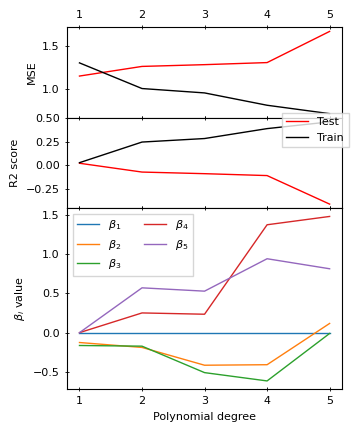
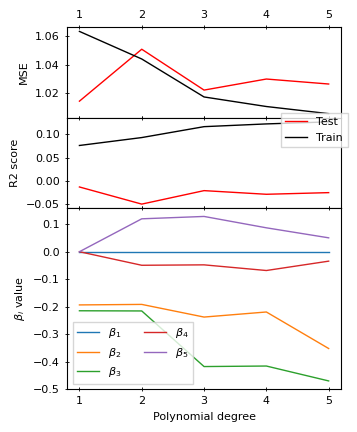
Changed theme

diff --git a/project1/src.py b/project1/src.py
@@ -384,11 +384,13 @@ class Regression:
             degree = np.arange(max_degree)
             error_y_test = self.y_test
             keepdims = True
+            filename = 'test-bias-var-trade'
         
         elif data_dim == 2:
             degree = np.arange(1, max_degree+1)
             error_y_test = self.y_test[:, np.newaxis]
             keepdims = False
+            filename = 'bias-var-trade'
 
         error = np.zeros(max_degree)
         bias = np.zeros_like(error)
@@ -410,7 +412,7 @@ class Regression:
             bias[deg_idx] = np.mean((self.y_test - np.mean(y_pred, axis=1, keepdims=keepdims))**2)
             variance[deg_idx] = np.mean(np.var(y_pred, axis=1, keepdims=keepdims))
 
-        fig, ax = plt.subplots(figsize=(8, 6))
+        fig, ax = plt.subplots(figsize=set_size())
         ax.plot(degree, error, label='Error', color='red')
         ax.plot(degree, bias, label='Bias', color='green')
         ax.plot(degree, variance, label='Variance', color='blue')
@@ -418,6 +420,8 @@ class Regression:
 
         ax.set_xlabel('Polynomial degree')
         fig.tight_layout()
+        fig.savefig('figures/' + filename + '.png', bbox_inches='tight')
+        fig.savefig('figures/' + filename + '.pdf', bbox_inches='tight')
 
 
 def frankes_function(x, y, add_noise=True):

diff --git a/project1/project1.py b/project1/project1.py
@@ -1,11 +1,11 @@
-import numpy as np 
+import numpy as np
 from numpy.random import rand
-import matplotlib.pyplot as plt 
+import matplotlib.pyplot as plt
 from src import Regression, frankes_function
 
 np.random.seed(2018)
 
-n = 100
+n = 500
 x, y = rand(2, n)
 X, Y = np.meshgrid(x, y)
 z = frankes_function(x, y)
@@ -16,5 +16,5 @@ reg = Regression(x, y, z)
 # reg.ridge(-4, 4, 5, 1000)
 # reg.plot_evolution('ridge', 'franke-test')
 # reg.plot_evolution('lasso', 'franke-test')
-reg.bias_variance_tradeoff(max_degree=8, n_bootstraps=100)
+reg.bias_variance_tradeoff(max_degree=15, n_bootstraps=100)
 plt.show()
